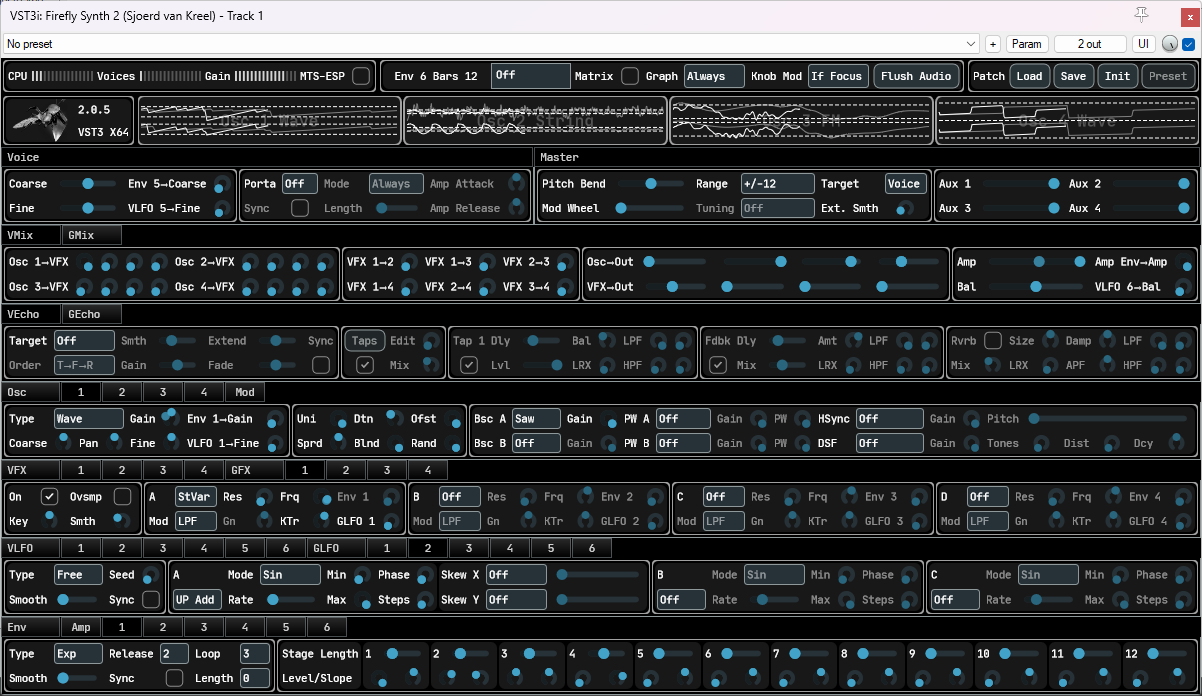
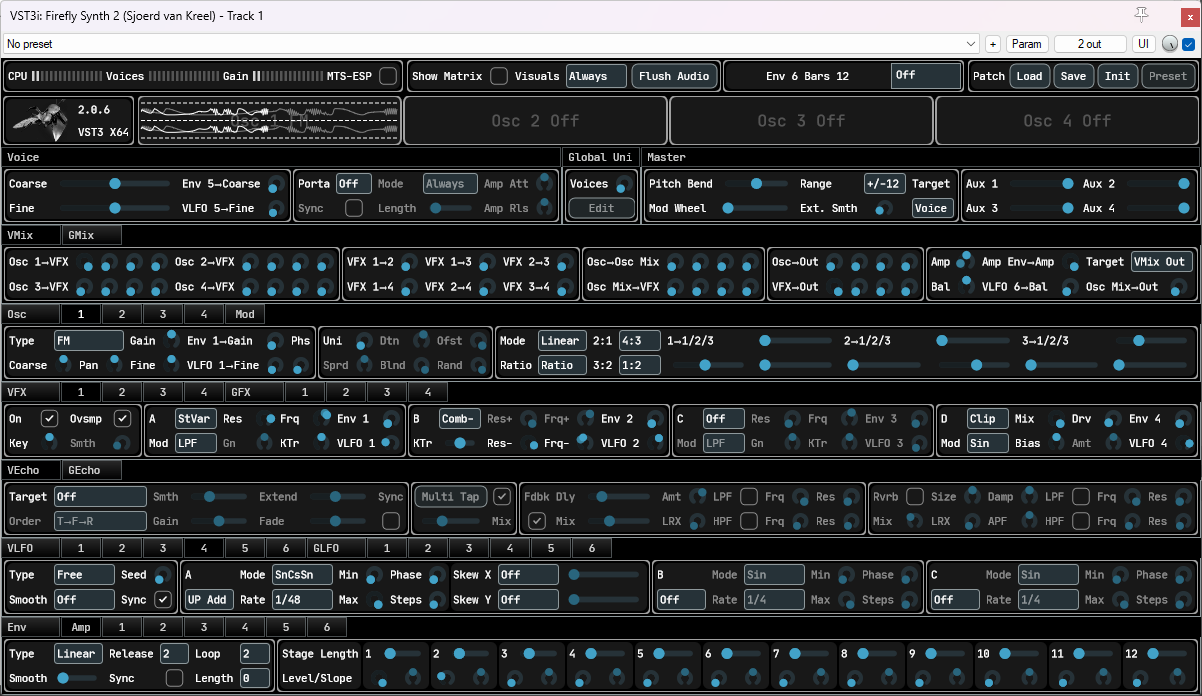
readme

diff --git a/README.md b/README.md
@@ -209,4 +209,5 @@ Git clone recursive, build scripts are in /scripts, build_windows|linux|mac.bat|
 # Screenshots
 <img alt="Screenshot" src="static/screenshot.png"/>
 <img alt="Screenshot Matrix" src="static/screenshot_matrix.png"/>
-<img alt="Screenshot Multitap" src="static/screenshot_multitap.png"/>
+<img alt="Screenshot Multitap" src="static/screenshot_multi_tap.png"/>
+<img alt="Screenshot Global Unison" src="static/screenshot_global_uni.png"/>
